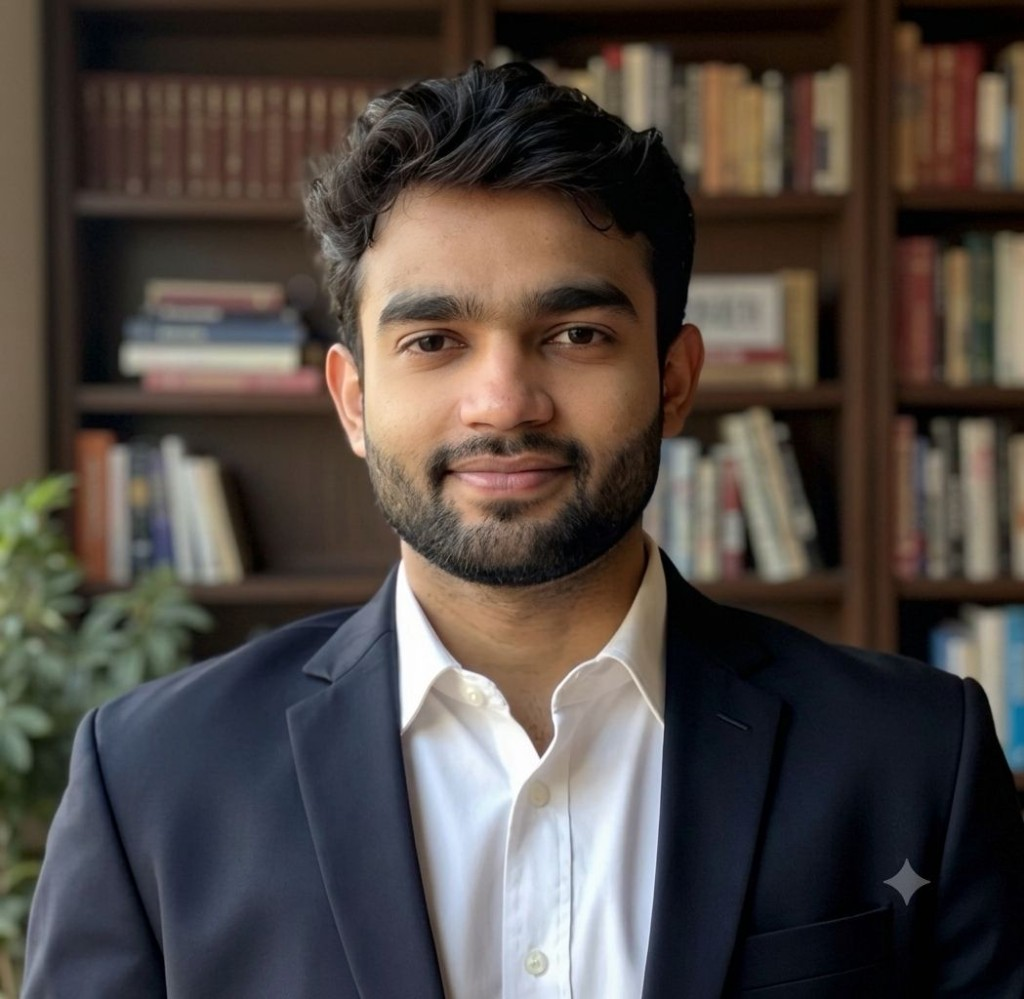
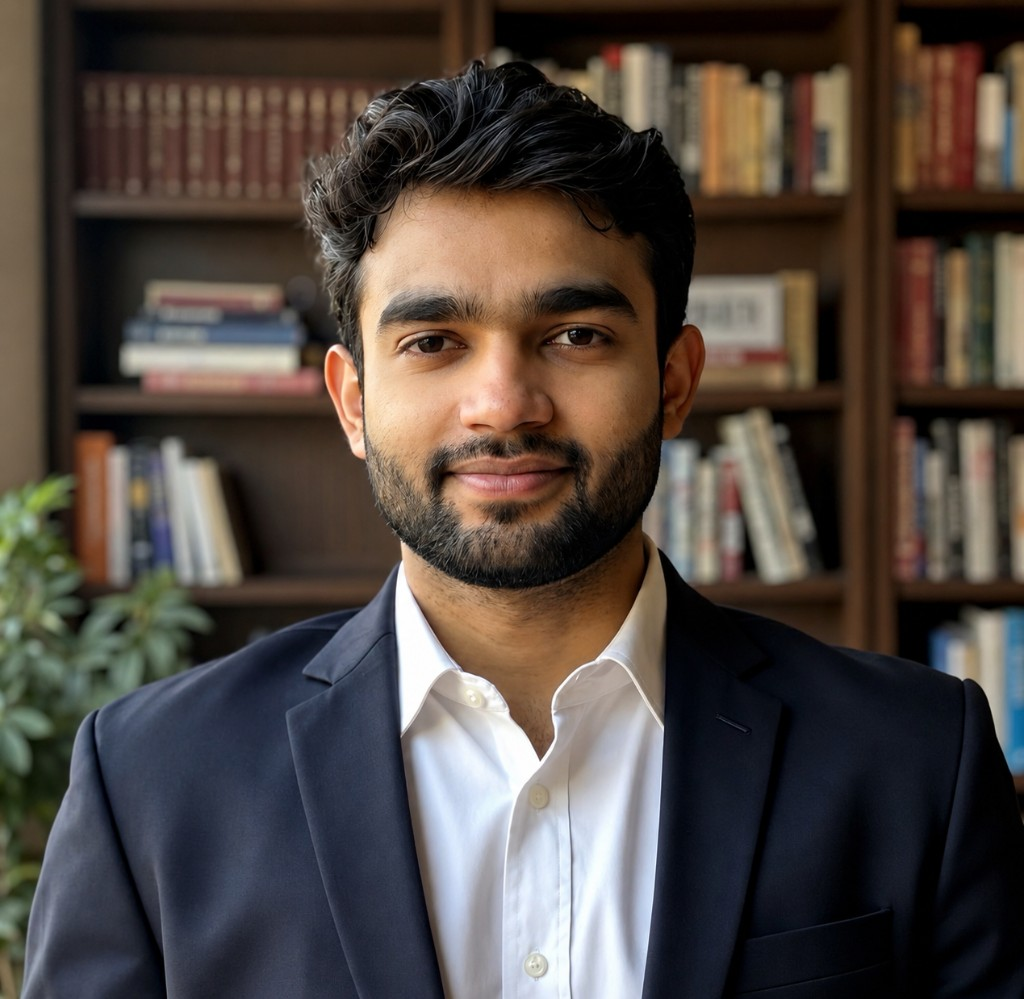
added project

diff --git a/styles.css b/styles.css
@@ -34,8 +34,8 @@ body {
 }
 
 .sidebar-avatar {
-  width: 88px;
-  height: 88px;
+  width: 108px;
+  height: 108px;
   border-radius: 50%;
   background: linear-gradient(135deg, #00d4aa22, #00d4aa44);
   border: 2px solid #00d4aa55;
